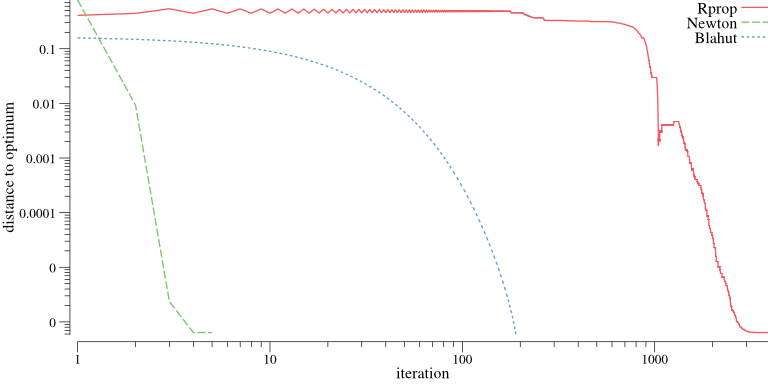
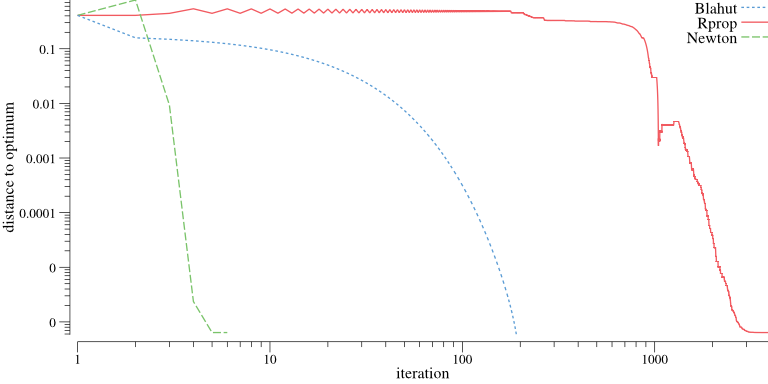
2015/11/30-15:32:57 (Linux furunkel.molgen.mpg.de unknown)

diff --git a/demo/channel/channel.go b/demo/channel/channel.go
@@ -84,6 +84,13 @@ func flatten(m [][]float64) []float64 {
   return v
 }
 
+func distance(v1, v2 []float64) float64 {
+  sum := 0.0
+  for i, _ := range v1 {
+    sum += math.Pow(v1[i]-v2[i], 2.0)
+  }
+  return math.Sqrt(sum)
+}
 
 /* hooks for keeping track of convergence speed
  * -------------------------------------------------------------------------- */
@@ -93,11 +100,7 @@ func hook_g(trace *[]float64, pxstar []float64, gradient []float64, variables Ve
   // split variables
   px := variables[0:n]
   // distance to optimum
-  d := 0.0
-  for i := 0; i < n; i++ {
-    d += math.Pow(pxstar[i]-px[i].Value(), 2.0)
-  }
-  d = math.Sqrt(d)
+  d := distance(px.Slice(), pxstar)
   // append result to trace
   *trace = append(*trace, d)
 
@@ -109,11 +112,7 @@ func hook_f(trace *[]float64, pxstar []float64, gradient Matrix, variables Vecto
   // split variables
   px := variables[0:n]
   // distance to optimum
-  d := 0.0
-  for i := 0; i < n; i++ {
-    d += math.Pow(pxstar[i]-px[i].Value(), 2.0)
-  }
-  d = math.Sqrt(d)
+  d := distance(px.Slice(), pxstar)
   // append result to trace
   *trace = append(*trace, d)
 
@@ -125,11 +124,7 @@ func hook_b(trace *[]float64, pxstar []float64, variables []float64) bool {
   // split variables
   px := variables[0:n]
   // distance to optimum
-  d := 0.0
-  for i := 0; i < n; i++ {
-    d += math.Pow(pxstar[i]-px[i], 2.0)
-  }
-  d = math.Sqrt(d)
+  d := distance(px, pxstar)
   // append result to trace
   *trace = append(*trace, d)
 
@@ -228,9 +223,9 @@ func channel_capacity(channel [][]float64, pxstar, px0 []float64) ([]float64, []
   active2 := make([]bool, n)
 
   // keep track of the path of an algorithm
-  trace1 := []float64{}
-  trace2 := []float64{}
-  trace3 := []float64{}
+  trace1 := []float64{distance(px0, pxstar)}
+  trace2 := []float64{distance(px0, pxstar)}
+  trace3 := []float64{distance(px0, pxstar)}
 
   // hooks
   hook1 := func(gradient []float64, variables Vector, s Scalar) bool {
